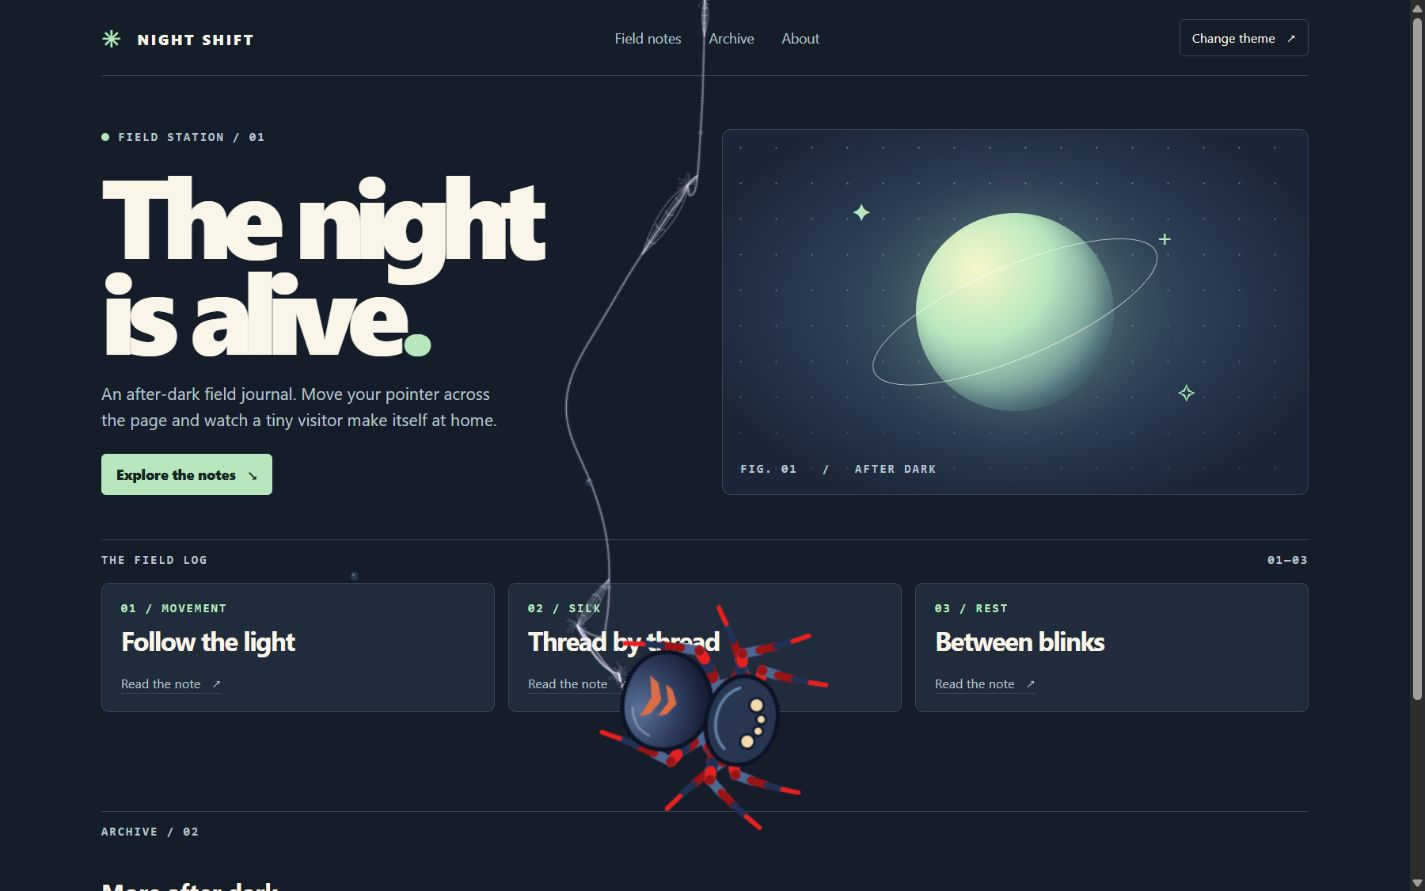
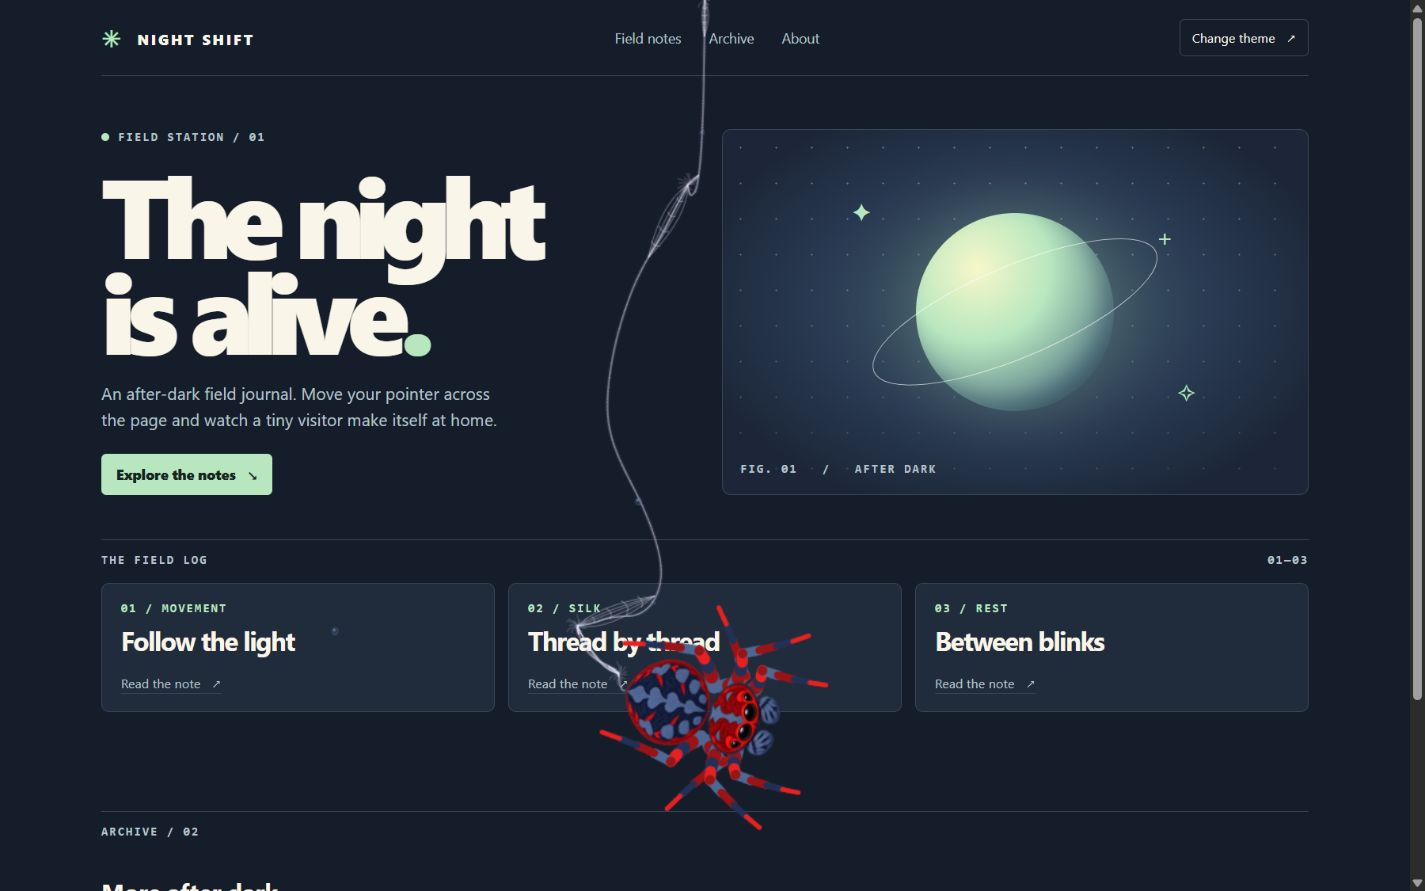
Restore the portfolio spider artwork

diff --git a/README.md b/README.md
@@ -90,4 +90,4 @@ Builds are checked on Node.js 24. Install the generated `.tgz` in a separate pro
 
 ## License
 
-The component source and original spider artwork are available under the [MIT License](LICENSE). The SVGs are the editable originals for the PNG sprites bundled with the package. Runtime dependencies have their own licenses.
+The [MIT License](LICENSE) covers the component code. The four PNG sprites from the portfolio are included with permission for this repository. Runtime dependencies have their own licenses.
